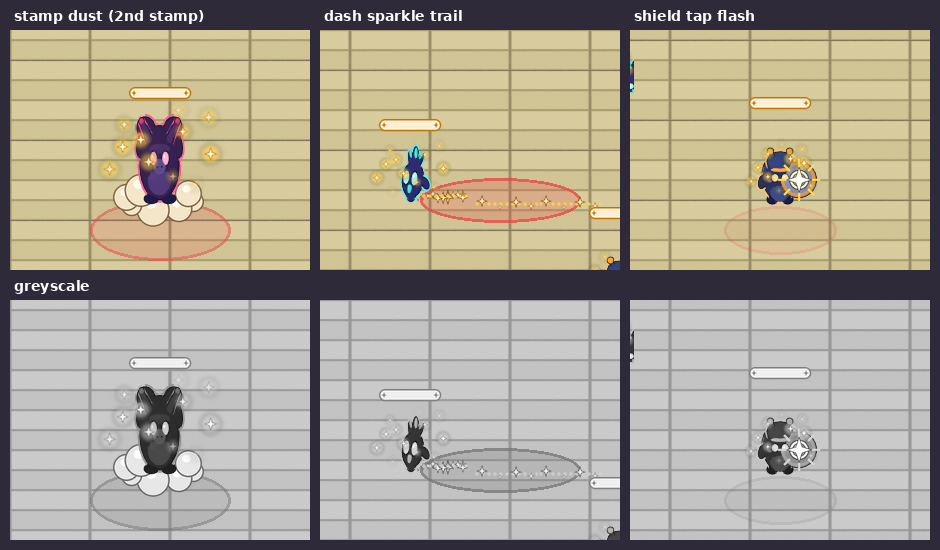
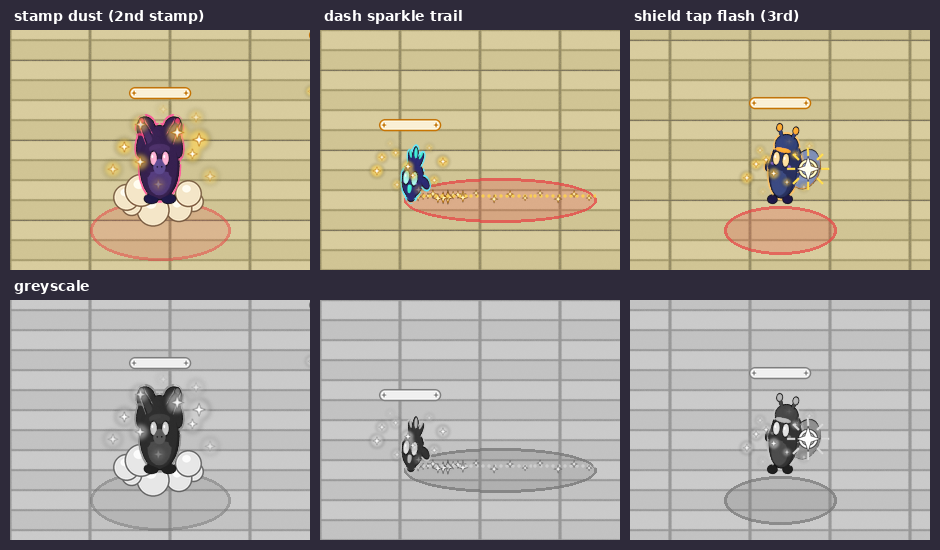
K-tells-fix: whole-number frames at each animation's fps (no half-frame crops), full idle-windup-attack cycle, no baked brute bounce, trail tile + per-frame shield-tap offsets; re-rendered tells GIF

diff --git a/incoming-art/named-monster/source/make_tells.py b/incoming-art/named-monster/source/make_tells.py
@@ -96,7 +96,14 @@ S["tell-shield-tap"] = {"enemy": "shield", "files": {"fx": "shield/tell-shield-t
 for k in S:  # shift rule simplification: give final offsets directly
     pass
 S["tell-shield-tap"]["offsetPerDirectionPx"] = {k: [v[0], round(v[1] + 40, 1)] for k, v in off.items()}
-S["tell-shield-tap"]["note"] = "Captain Clank taps three times. Draw the sheet at the enemy anchor shifted by offsetPerDirectionPx[dir] so the flash sits on the shield. Wind-up stays 0.7 s."
+nwf = sh.width // W; opf = {}
+for r, dname in enumerate(J["directions"]):
+    opf[dname] = []
+    for f in range(nwf):
+        b = sh.crop((f * W, r * H, (f + 1) * W, (r + 1) * H)).getbbox()
+        opf[dname].append([round((b[0] + b[2]) / 2 - AX, 1), round((b[1] + b[3]) / 2 - AY + 40, 1)] if b else S["tell-shield-tap"]["offsetPerDirectionPx"][dname])
+S["tell-shield-tap"]["offsetPerFramePx"] = opf
+S["tell-shield-tap"]["note"] = "Captain Clank taps three times. Draw the sheet at the enemy anchor shifted by offsetPerFramePx[dir][current wind-up frame] (the shield rises during the wind-up, so it must follow the frame). offsetPerDirectionPx = frame 0 only, kept for old code. Wind-up stays 0.7 s."
 # ---- stickers: finished (die-cut, thick white border + gold keyline) ----
 def enemy(e, f=0, anim="idle", dname="S"):
     J = ej(e); fw, fh = J["frameWidth"], J["frameHeight"]; row = J["directions"].index(dname); im = Image.new("RGBA", (fw, fh))
@@ -145,42 +152,58 @@ SPK_ = {e: Image.open(os.path.join(SP, e, "named-sparkle_front.png")).convert("R
 TAG = Image.open(os.path.join(SP, "name-tag.png")).convert("RGBA"); HO = S["name-tag"]["headOffsetPx"]
 def put(c, img, x, y, ax, ay): c.alpha_composite(img, (int(x - ax), int(y - ay)))
 def fr(sheet_, i, w, h): return sheet_.crop((i * w, 0, (i + 1) * w, h))
-def mon(c, e, x, y, i, anim="idle"):
-    J = ej(e); im, (ax, ay) = enemy(e, i, anim); put(c, im, x, y, ax, ay); put(c, fr(SPK_[e], i % 8, J["frameWidth"], J["frameHeight"]), x, y, ax, ay); put(c, TAG, x, y - HO[e], 32, 16)
-POS = {"brute": (150, 300), "swarmer": (380, 210), "shield": (590, 320)}
+def mon(c, e, x, y, f, anim="idle", spk_f=0):
+    """f MUST be an int frame of that animation (a float here split frames in half: the PR #53 bug)."""
+    J = ej(e); im, (ax, ay) = enemy(e, int(f), anim); put(c, im, x, y, ax, ay); put(c, fr(SPK_[e], int(spk_f) % 8, J["frameWidth"], J["frameHeight"]), x, y, ax, ay); put(c, TAG, x, y - HO[e], 32, 16)
+POS = {"brute": (150, 300), "swarmer": (330, 210), "shield": (590, 320)}
+A = {e: ej(e)["animations"] for e in POS}
 def danger(c, x, y, rx, ry, a):
+    if a <= 0: return
     o = Image.new("RGBA", c.size); d = ImageDraw.Draw(o); d.ellipse((x - rx, y - ry, x + rx, y + ry), fill=(230, 70, 70, int(60 * a)), outline=(230, 70, 70, int(200 * a)), width=3); c.alpha_composite(o)
-def frame(t):
-    """t in ticks of 0.1 s over a 4.0 s cycle: brute 0-1.2, swarmer 1.3-2.5, shield 2.6-3.6"""
-    c = floor(740, 440); sec = t / 10
+START = {"brute": 0.4, "swarmer": 2.6, "shield": 4.8}   # each creature: idle -> wind-up (+ tell) -> attack -> idle; one at a time
+CYCLE = 7.0
+def state(e, sec):
+    """returns (anim, int frame, seconds into that anim) from real time, using each animation's own fps"""
+    a = A[e]; t0 = START[e]; wd, ad = a["windup"]["durationSec"], a["attack"]["durationSec"]
+    if t0 <= sec < t0 + wd: lt = sec - t0; return "windup", min(a["windup"]["frames"] - 1, int(lt * a["windup"]["fps"])), lt
+    if t0 + wd <= sec < t0 + wd + ad: lt = sec - t0 - wd; return "attack", min(a["attack"]["frames"] - 1, int(lt * a["attack"]["fps"])), lt
+    return "idle", int(sec * a["idle"]["fps"]) % a["idle"]["frames"], sec
+def frame(sec):
+    c = floor(740, 440); spk = int(sec * 10)   # sparkles 10 fps
     for e, (x, y) in POS.items():
-        if e == "brute" and sec < 0.8:
-            k = int(sec * 10); danger(c, x, y + 30, 70, 30, J0["brute"][k]); s0 = 0 if sec < .4 else .4; di = min(5, int((sec - s0) * 15))
-            put(c, fr(DS, di, 208, 208), x, y, 104, 170.56); mon(c, e, x, y + (2 if abs(sec - s0) < .12 and k % 2 else 0), k, "windup")
-        elif e == "swarmer" and 1.3 <= sec < 1.9:
-            k = int((sec - 1.3) * 10); danger(c, x + 90, y, 80, 22, J0["swarmer"][k]); put(c, fr(TS, k, 128, 128), x, y, 64, 104.96)
-            for q in range(2): put(c, fr(TT, k, 64, 24), x + 64 + q * 64, y, 0, 12 - 4 + 0)
-            mon(c, e, x, y, k, "windup")
-        elif e == "shield" and 2.6 <= sec < 3.3:
-            k = int((sec - 2.6) * 10); danger(c, x, y + 30, 56, 24, J0["shield"][k]); mon(c, e, x, y, k, "windup"); lt = sec - 2.6
-            for s0 in (0, .233, .467):
-                if s0 <= lt < s0 + .2:
-                    o = S["tell-shield-tap"]["offsetPerDirectionPx"]["S"]; put(c, fr(TP, min(3, int((lt - s0) * 20)), 128, 128), x + o[0], y + o[1], 64, 104.96)
-        else: mon(c, e, x, y, t)
+        an, f, lt = state(e, sec); J = ej(e); ti = (A[e][an].get("telegraphIntensity") or [0] * 99)[f] if an != "idle" else 0
+        if e == "brute":
+            danger(c, x, y + 30, 70, 30, ti)
+            if an == "windup":
+                s0 = 0.0 if lt < 0.4 else 0.4; put(c, fr(DS, min(5, int((lt - s0) * 15)), 208, 208), x, y, 104, 170.56)   # no body bounce: shake is the game's (off with reduced motion)
+            mon(c, e, x, y, f, an, spk)
+        elif e == "swarmer":
+            dx = 0
+            if an == "attack":   # dash out along the trail over frames 0-2, then hop back during the recover
+                dx = 150 * min(1, (lt + 0.1) / 0.3) if f <= 2 else 150 * max(0, 1 - (lt - 0.3) / 0.7)
+            danger(c, x + 90, y, 96, 22, ti)
+            if an == "windup" or (an == "attack" and f <= 2):
+                tf = min(5, int(lt * 10)) if an == "windup" else 5; put(c, fr(TS, tf, 128, 128), x, y, 64, 104.96)
+                if an == "attack" or tf == 5:
+                    for q in range(2): put(c, fr(TT, int(sec * 10) % 6, 64, 24), x + 58 + q * 64, y, 0, 16)   # tile line (y 12) on the trail line (anchor - 4)
+            mon(c, e, x + dx, y, f, an, spk)
+        else:
+            danger(c, x, y + 30, 56, 24, ti); mon(c, e, x, y, f, an, spk)
+            if an == "windup":
+                for s0 in (0.0, 0.233, 0.467):
+                    if s0 <= lt < s0 + 0.2:
+                        o = S["tell-shield-tap"]["offsetPerFramePx"]["S"][f]; put(c, fr(TP, min(3, int((lt - s0) * 20)), 128, 128), x + o[0], y + o[1], 64, 104.96)
     return c
-J0 = {e: ej(e)["animations"]["windup"]["telegraphIntensity"] for e in POS}
 DS = Image.open(os.path.join(SP, "brute", "tell-stamp-dust.png")).convert("RGBA"); TS = Image.open(os.path.join(SP, "swarmer", "tell-dash-trail.png")).convert("RGBA")
 TT = Image.open(os.path.join(SP, "swarmer", "tell-dash-trail-tile.png")).convert("RGBA"); TP = Image.open(os.path.join(SP, "shield", "tell-shield-tap.png")).convert("RGBA")
-# 0.05 s steps for smooth tells
-FR = []
-for q in range(80):
-    FR.append(frame(q / 2).resize((555, 330), Image.LANCZOS))
+STEP = 0.05   # 20 fps GIF; every layer picks its own int frame from real time
+FR = [frame(q * STEP).resize((555, 330), Image.LANCZOS) for q in range(int(CYCLE / STEP))]
 FR[0].save(os.path.join(PV, "tells-room.gif"), save_all=True, append_images=FR[1:], duration=50, loop=0)
 # key frames, colour + greyscale
 keys = [2, 5, 15, 18, 26, 28]   # ticks: brute stamp 1/2, swarmer trail, shield tap 1/2
 row = Image.new("RGBA", (740, 440 * 2 + 20), (46, 42, 58, 255)); a = frame(2.6 * 10 + 2.6); b = frame(.4 * 10 + 1)
 strip = Image.new("RGBA", (3 * 300 + 40, 2 * 240 + 70), (46, 42, 58, 255)); d = ImageDraw.Draw(strip)
-crops = [(frame(4.5), "brute", "stamp dust (2nd stamp)"), (frame(18), "swarmer", "dash sparkle trail"), (frame(26.5), "shield", "shield tap flash")]
+crops = [(frame(START["brute"] + 0.45), "brute", "stamp dust (2nd stamp)"), (frame(START["swarmer"] + 0.55), "swarmer", "dash sparkle trail"), (frame(START["shield"] + 0.5), "shield", "shield tap flash (3rd)")]
 for k, (im, e, lab) in enumerate(crops):
     x, y = POS[e]; cr = im.crop((x - 150 + (60 if e == "swarmer" else 0), y - 170, x + 150 + (60 if e == "swarmer" else 0), y + 70))
     strip.alpha_composite(cr, (10 + k * 310, 30)); strip.alpha_composite(ImageOps.grayscale(cr.convert("RGB")).convert("RGBA"), (10 + k * 310, 300)); d.text((14 + k * 310, 8), lab, fill=(255, 255, 255), font=F(14))

diff --git a/incoming-art/named-monster/DELIVERY_NOTE.md b/incoming-art/named-monster/DELIVERY_NOTE.md
@@ -1,33 +1,33 @@
-# Delivery Note: M7-N1 named monster, final tells + stickers, 2026-10-24
+# Delivery Note: K-tells-fix, the named-monster warning moves, 2026-10-24
 
-**ITEM:** M7-N1 named monster, per `drafts/planning/named-monster-proposal.md`: final tells (production), finished stickers. The name tag is unchanged.
+**ITEM:** Jay on PR #53: "Warning moves is broken. The characters are doing crazy things."
 
-**WHAT** (`incoming-art/named-monster/`, everything listed in `sprites/static.json`)
-1. **Final tells.** Each sheet uses that creature's frame size and anchor (the ground point), in one row, played during the normal wind-up. **Wind-up lengths are unchanged.**
-   - **Old Thumper stamp dust** `sprites/brute/tell-stamp-dust.png`: 208 frames, 6 at 15 fps (0.4 s). Plays twice, at 0.0 s and 0.4 s of the 0.8 s wind-up, each with a 2 px / 0.12 s shake. A soft ground ring plus round cream puffs with a brown rim.
-   - **Zippy Zoom dash sparkle trail** `sprites/swarmer/tell-dash-trail.png`: 128 frames, 6 at 10 fps (exactly the 0.6 s wind-up), holds its last frame until the dash ends. Gold stars and a dotted line grow along the dash path. It is drawn facing E; the game rotates it. `tell-dash-trail-tile.png` (64 x 24, loops) extends longer dashes.
-   - **Captain Clank shield-tap flash** `sprites/shield/tell-shield-tap.png`: 128 frames, 4 at 20 fps (0.2 s). Plays 3 times, at 0.0, 0.233 and 0.467 s of the 0.7 s wind-up (the "clank" sound plays at the same times). It has an `offsetPerDirectionPx` so the flash sits on the shield in all 8 directions.
-   - Every tell has an ink rim, uses no red (red stays the danger circle's colour) and has no sharp or scary shapes. They read in greyscale: see `preview/tells-keyframes-greyscale.png`.
-   - The rough sheets from PR #48 are removed.
-2. **Stickers (final):** `sprites/sticker/sticker-{brute,swarmer,shield}.png`, 80 x 80 Home Dojo wall items, in the **die-cut style**: the creature on a thick white border with a thin gold keyline and 4 gold sparkles. `preview/stickers-final.png`.
-3. **Name tag:** the art is unchanged. Only `headOffsetPx` was raised (brute 98, swarmer 66, shield 88), so that the tag clears the head in the wind-up and attack poses too and never overlaps or jumps during a tell.
-- Previews:
-  - `preview/tells-room.gif` (4 s loop; the brute, swarmer and shield each tell in turn, over the red danger circle)
-  - `preview/tells-keyframes-greyscale.png`
-  - `preview/tells-sheets.png`
-- `source/make_tells.py` (run after `make_named.py` and `make_named_b2.py`).
+**WHAT was broken (plain words)**
+- The monsters in the preview GIF were being **cut in half**. On every other GIF frame the script asked for "frame 1.5" of a creature. That made it cut the sprite sheet halfway between two pictures, so you saw the right half of one pose next to the left half of the next. The monsters looked like they were splitting, sliding and flickering.
+- The calm "idle" breathing also played about **twice as fast** as it should, because it followed the GIF's speed instead of the creature's own speed.
+- After each warning the monster **snapped straight back to idle** with no attack, so the warning didn't lead anywhere.
+- The brute was also **bounced up and down 2 px** on its stamps. That shake belongs to the game camera and is off with reduced motion, so it shouldn't be baked into the creature.
+- **Two small alignment slips:**
+  - The swarmer's long-dash trail pieces sat 8 px below the main trail line.
+  - The shield flash used the shield's spot from the first frame only, but the shield rises during the wind-up, so the flash drifted off it.
+- The three tell sprite sheets themselves were fine: same frame sizes, anchors, frame order and direction rows as the creatures. I checked each one frame by frame.
 
-**WHY**
-- The tells only add to the normal warning, as the proposal asks: same timing, same danger circle, so a 6-year-old can still counter on the normal warning.
-- **Why the die-cut sticker style:**
-  - The white border separates the sticker from any wall colour or tier theme, and it looks like a real sticker kids already know.
-  - The gold sparkles and keyline repeat the named-monster sparkles, so it is clearly "from that special monster".
-  - It stays clear at 80 px and in greyscale.
-  - It needs no text or name, so it works before the Content Designer has the names.
+**WHAT I fixed** (`incoming-art/named-monster/` only, in the generating script `source/make_tells.py`)
+- Every creature and effect now picks a **whole frame from real time, at that animation's own speed**: idle at 8-10 fps, wind-up and attack at 10 fps, sparkles at 10 fps.
+- Each monster now does a full, believable move in turn:
+  - It waits calmly.
+  - It winds up. The warning circle grows and its tell plays: 2 dust stamps, the sparkle trail, or 3 shield taps.
+  - It attacks. The swarmer actually dashes along its trail and hops back.
+  - It goes back to calm.
+- I removed the brute bounce, so reduced motion keeps working: the game owns the shake and turns it off with reduced motion.
+- I lined the trail pieces up with the trail.
+- The shield flash now follows the shield on every wind-up frame (new `offsetPerFramePx` in `static.json`; the old `offsetPerDirectionPx` is still there).
+- Re-rendered `preview/tells-room.gif` (7 s loop) and `preview/tells-keyframes-greyscale.png`.
+- **Checked:** I pulled frames out of the new GIF. The feet stay on the same line (only the real wind-up and attack poses move them a few px), no frame is cut, and the sizes change only with the real poses.
+- The name tag, Insight icons, sheets, frame sizes, anchors and timings are unchanged.
 
-**DECIDE (Jay)**
-1. OK the three tells as final?
-2. OK the die-cut sticker style?
-3. The shake on the brute stamp is small (2 px). Keep it, or turn it off in reduced-motion settings? (I suggest off when reduced motion is on.)
+**WHY:** The warning moves have to be easy for a 6-year-old to read. A monster that flickers or splits looks broken and hides the real warning.
 
-**NEXT:** after OK, the per-tier sets (Tier 3) when those creatures exist.
+**DECIDE (Jay):** Does the new GIF now look right to you? If yes, the tells are ready to wire in.
+
+**NEXT:** After your OK, Claude Code wires the tells using the notes, which now also say: "always use whole frame numbers from each animation's own speed".

diff --git a/incoming-art/NOTES-FOR-CLAUDE-CODE.md b/incoming-art/NOTES-FOR-CLAUDE-CODE.md
@@ -256,7 +256,8 @@ Same ids, file names, 128 x 128 size, anchor (64, 64) and static.json. Only the 
 - **Final tells** (each sheet is one row at the enemy's frame size and anchor; played during the normal wind-up, which keeps its length):
   - brute `brute/tell-stamp-dust.png`: 6 frames at 15 fps; play at 0.0 s and 0.4 s of the 0.8 s wind-up, with a 2 px shake for 0.12 s each (off when reduced motion is on, pending Jay). Draw it under the enemy.
   - swarmer `swarmer/tell-dash-trail.png`: 6 frames at 10 fps over the 0.6 s wind-up, then hold the last frame until the dash ends. It is drawn facing +x, so rotate it about the anchor to the dash angle. Loop `tell-dash-trail-tile.png` (64 x 24) for longer dashes. Draw it under enemies, over the danger circle.
-  - shield `shield/tell-shield-tap.png`: 4 frames at 20 fps; play at 0.0, 0.233 and 0.467 s of the 0.7 s wind-up, plus the clank sound. Shift it by `offsetPerDirectionPx[dir]` and draw it over the enemy.
+  - shield `shield/tell-shield-tap.png`: 4 frames at 20 fps; play at 0.0, 0.233 and 0.467 s of the 0.7 s wind-up, plus the clank sound. Shift it by `offsetPerFramePx[dir][current wind-up frame]` (new: the shield rises during the wind-up, so the flash must follow it; `offsetPerDirectionPx` is frame 0 only) and draw it over the enemy.
+- Always pick enemy and effect frames as whole numbers from real time and each animation's own fps (see `make_tells.py` `state()`). Never use a fractional frame index. Sheet sizes, anchors and timings are unchanged.
 - `name-tag.headOffsetPx` covers the idle, wind-up and attack poses, so the tag stays fixed during tells.
 - Stickers in `sticker/` are final (die-cut style).
 - Journal parts in `journal/` with layout slots in static.json; stickers in `sticker/` (final, wall items).
